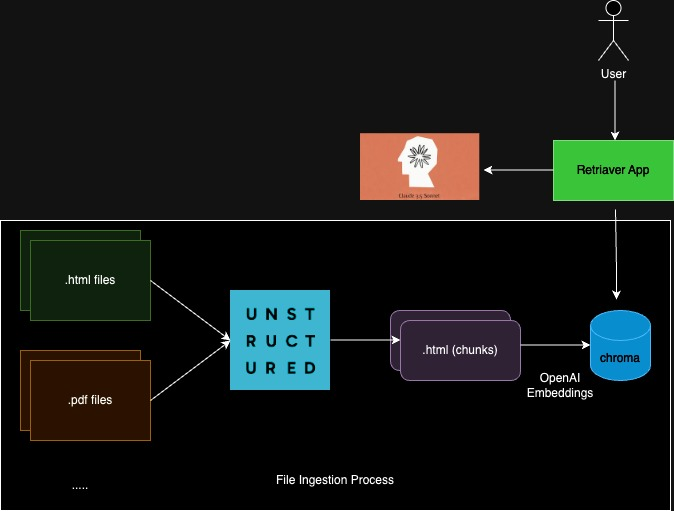
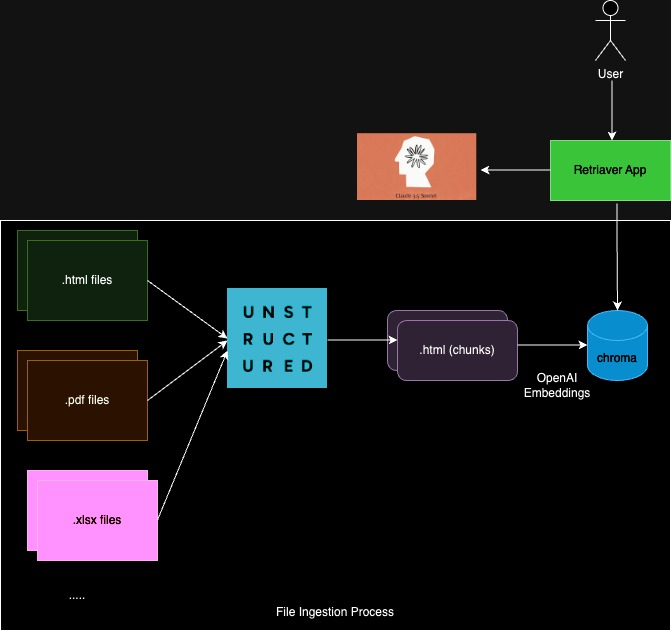
added support for Excel files

diff --git a/ingest/excel_loader.py b/ingest/excel_loader.py
@@ -1,0 +1,33 @@
+import warnings
+from dotenv import load_dotenv
+from unstructured.partition.xlsx import partition_xlsx
+from langchain_community.vectorstores.utils import filter_complex_metadata
+from langchain_community.vectorstores import Chroma
+from langchain_core.documents import Document
+from langchain_openai import OpenAIEmbeddings
+
+warnings.filterwarnings('ignore')
+_ = load_dotenv()
+
+
+def upload_excel_file_to_vector_db(excel_file_path, persistent_dir):
+    excel_elements = partition_xlsx(filename=excel_file_path,
+                                    mode="elements",
+                                    infer_table_structure=True,
+                                    chunking_strategy="by_title",
+                                    max_characters=4096,
+                                    new_after_n_chars=3800,
+                                    combine_text_under_n_chars=2000)
+
+    documents = []
+    for element in excel_elements:
+        metadata = element.metadata.to_dict()
+        metadata["source"] = metadata["filename"]
+        documents.append(Document(page_content=element.text, metadata=metadata))
+
+        # Filter out elements with complex metadata that are not useful for the vector store
+        documents = filter_complex_metadata(documents)
+
+        Chroma.from_documents(documents,
+                              OpenAIEmbeddings(),
+                              persist_directory=persistent_dir)

diff --git a/ingest/app.py b/ingest/app.py
@@ -1,5 +1,6 @@
 from html_loader import upload_html_file_to_vector_db
 from pdf_loader import upload_pdf_file_to_vector_db
+from excel_loader import upload_excel_file_to_vector_db
 from chroma_retreaver import chroma_db_upload_verifier
 
 persistent_dir = '../vectorstore'
@@ -12,6 +13,9 @@ pdf_file_path = '../docs/apple_8_k_q1_2024.pdf'
 pdf_uploader_query = "What’s the iPhone Net sales for Three Months Ended March 30, 2024 in millions of $ for Apple?"
 # answer = "45,963"
 
+excel_file_path = '../docs/nvidia_quarterly_revenue_trend.xlsx'
+excel_uploader_query = "What’s the Data Center revenue for Q1 FY25?"
+# answer = "22,563"
 
 # test the html uploader
 upload_html_file_to_vector_db(html_file_path, persistent_dir)
@@ -23,4 +27,7 @@ upload_pdf_file_to_vector_db(pdf_file_path, persistent_dir)
 pdf_uploader_response = chroma_db_upload_verifier(pdf_uploader_query)
 print("pdf uploader response", pdf_uploader_response)
 
-
+# test the Excel uploader
+upload_excel_file_to_vector_db(excel_file_path, persistent_dir)
+excel_uploader_response = chroma_db_upload_verifier(excel_uploader_query)
+print("excel uploader response", excel_uploader_response)

diff --git a/ingest/html_loader.py b/ingest/html_loader.py
@@ -13,6 +13,7 @@ _ = load_dotenv()
 # Load HTML content from a file
 
 def upload_html_file_to_vector_db(html_file_path, persistent_dir):
+
     html_elements = partition_html(filename=html_file_path,
                                    chunking_strategy="by_title",
                                    max_characters=4096,
